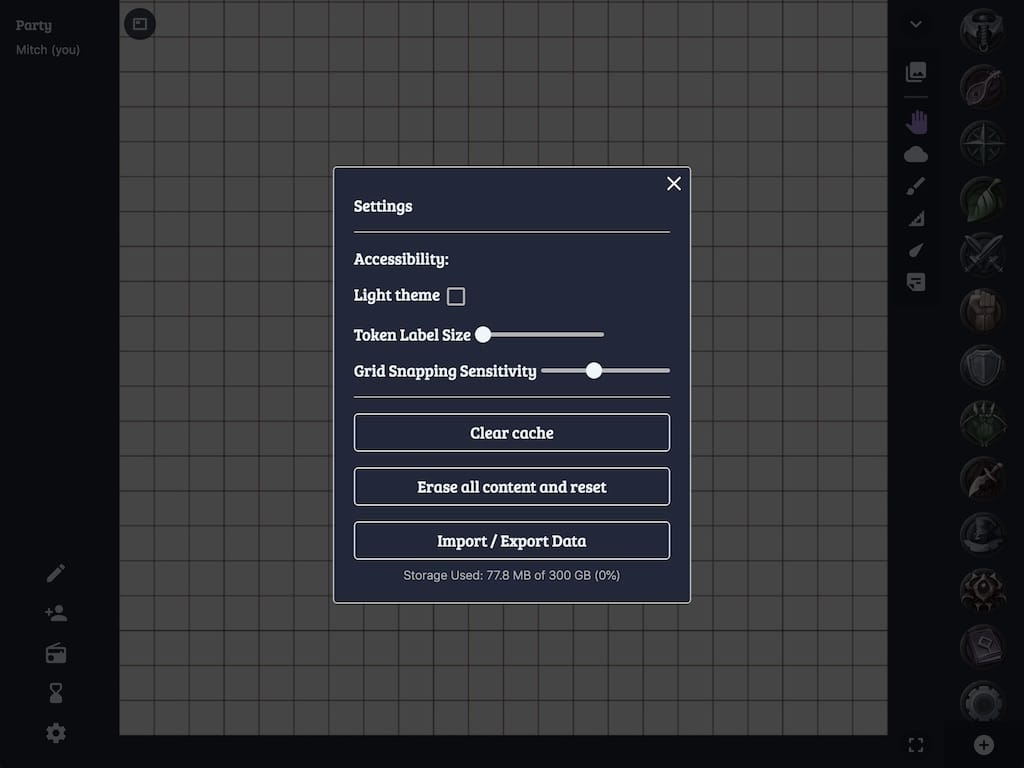
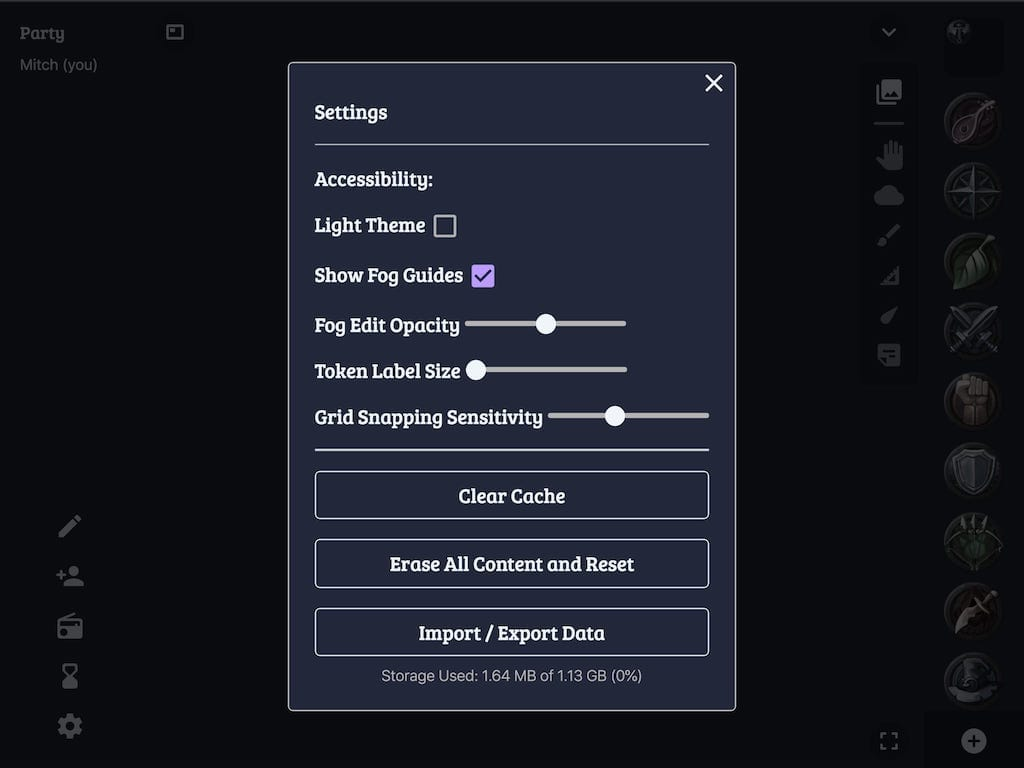
Update docs with new settings

diff --git a/src/docs/howTo/settings.md b/src/docs/howTo/settings.md
@@ -6,6 +6,8 @@ To Access the settings screen click the Settings button in the bottom left of a 
 An overview of each setting is listed below:
 
 - Light theme: Enables/disables the light theme.
+- Show fog guides: Enables/disables the fog guide visual when editing fog.
+- Fog edit opacity: Adjusts how visible fog is while the GM is editing it.
 - Token label size: Changes the max label size for tokens.
 - Grid snapping sensitivity: Changes how sensitive the grid snapping is. 0 = no grid snapping, 1 = full grid snapping.
 - Clear cache: Clears the apps settings and any maps that other users have sent you. Does not remove any data you have added.
